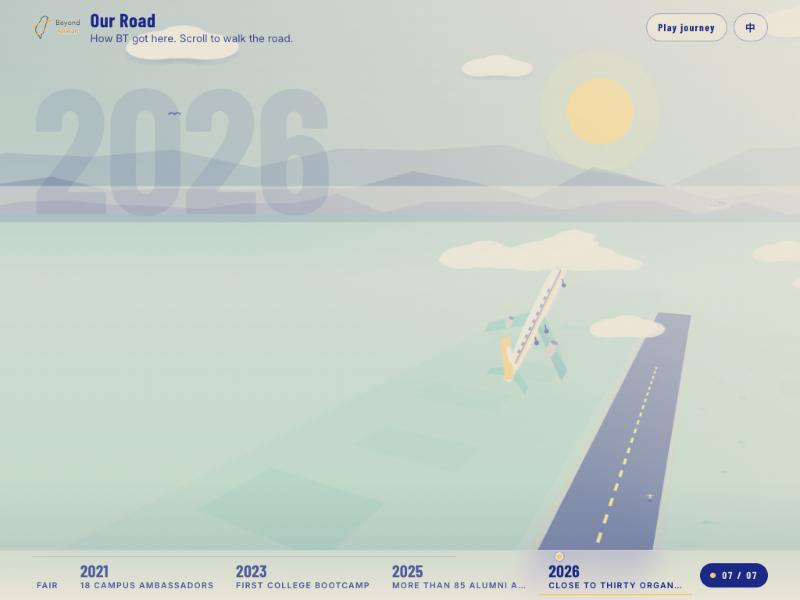
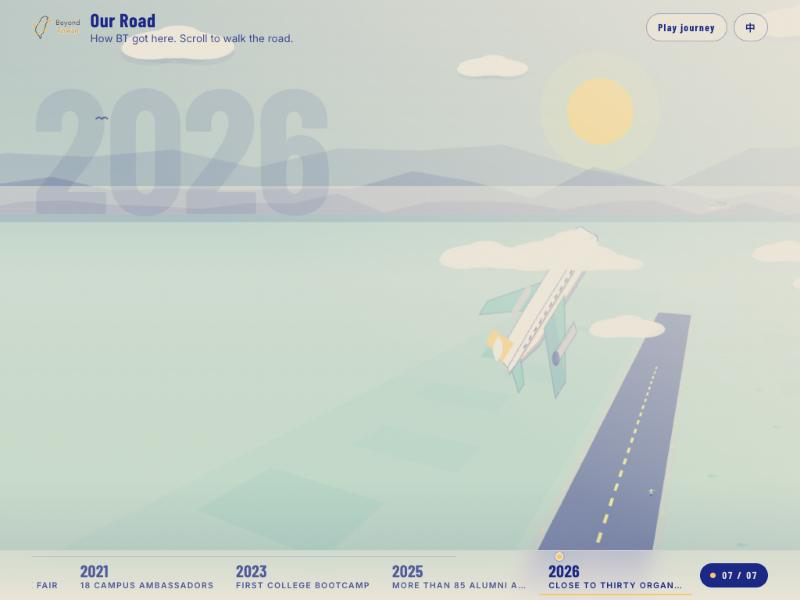
docs: 歷史之路批 4 第三輪。README 補飛機的新畫法、計畫文件補第三輪打勾、重拍 page-18、19、22

Changed region(s): [[0.5938, 0.45, 0.7188, 0.66], [0.1562, 0.06, 0.1875, 0.09]]

diff --git a/README.md b/README.md
@@ -3499,6 +3499,7 @@ Paul 看完批 3 說還不錯，接著要把主題換成機場：BT 這個名字
 - **飛機重畫成客機**：圓機頭、收細的尾錐、一排窗、駕駛艙窗、後掠機翼、翼下兩具引擎、水平尾翼、橘色垂直尾翼帶一片奶油色的台灣、起落架在地上看得到、離地就收（`frame()` 看 `lift`）。每個零件掛 `pl-*` 的 class，測試「飛機（批 4 修正）」照名字數。停著的飛機是同一具身體，尾翼 `currentColor`。
 - **換鏡分兩步**：室內先淡出並往左上滑走（0.36 到 0.385），室外再縮進來（0.375 到 0.40），任何一刻兩邊不同時超過一半（有測試）。
 - **起飛的顏色**：地面的霧只在地平線附近濃、往下很快變淡、帶一點沙色；離地後看得到的距離拉遠一倍，跑道一路收細退遠；天空多一層高空藍的漸層，黃昏那一層與地平線的白帶隨離地淡掉。
+- **第三輪，飛機再改一次畫法**：俯視圖轉角度送進投影，沿滑行道一壓就剩一根棍子。現在是照低多邊形等角插畫的方法預先畫好的四分之三視角（`scene.js` 的 `airliner()`，用沿機身、橫向、高度三個軸直接算畫面座標，不經投影、不轉角度），放的時候只 translate 加 scale 到投影出來的地面點。地面一張（`btplane`，有起落架）、爬升一張（`btclimb`，機頭抬 15 度、沒起落架、機腹深一點），離地那一下交叉淡入。比例照插畫的習慣放大，機身與機翼描一條淡藍邊。
 - 一個順手抓到的錯，寫在這裡給下一個畫 SVG 的人：**同一個元素不能寫兩次 `class`**，瀏覽器只認第一個，第二個整個不見（尾翼因此變黑）。測試現在擋整個場景裡的重複 class。
 
 ## 視覺收尾（2026-11-05）

diff --git a/docs/2026-11-05-BT-歷史之路計畫.md b/docs/2026-11-05-BT-歷史之路計畫.md
@@ -240,3 +240,9 @@ Paul 看過批 4 之後要修的三件（2026-11-06，同一天第二輪）：
 - [x] 起飛的地平線一片白：地面的霧改成從地平線往下很快變淡、帶一點沙色，草地與跑道留住顏色；離地之後能看到的距離從 3800 拉到 6800，跑道一路收細退遠；天空多一層到高空藍的漸層（深藍到青到奶油），黃昏那一層與地平線那條白帶隨離地淡掉。
 - 重拍 page-17、18、19 與 page-22（手機停機坪），檔名不變。SVG 橫式 63,657、直式 56,171。
 
+第三輪（2026-11-06）：Paul 說飛機還是一根棍子。原因是俯視圖轉了角度之後沿滑行道一壓就剩一條線。改法只動飛機：
+- [x] 查過低多邊形等角客機的畫法（"low poly airliner isometric illustration"）：從側上方看，機身是一根長管，看得到亮的頂面與帶窗的側面，機頭圓、尾錐往上收，機翼是平的平行四邊形往後掠，兩具短圓筒引擎掛在翼下、看得到後端排氣口，垂直尾翼直立、水平尾翼小。`scene.js` 的 `airliner()` 照這個用 t（沿機身）、w（橫向）、z（高度）三個軸直接算成畫面座標畫，**不經投影、不轉角度**，放的時候只 translate 加 scale。比例照插畫的習慣放大（機身長 170 高 40，引擎大、機翼寬），機身與機翼描一條淡藍邊。
+- [x] 第二張爬升的姿勢（`btclimb`：機頭抬 15 度、沒有起落架、機腹深一點），離地那一下兩張交叉淡入（`frame()` 看 `lift`）。影子還是分開的橢圓留在地上。
+- [x] 測試「飛機（批 4 修正）」改成兩張都數零件，加一條「機頭在右上」與「不轉角度」。守門全綠（測試 668）。SVG 橫式 67,142、直式 60,685。
+- [x] 重拍 page-18、19、22。
+
